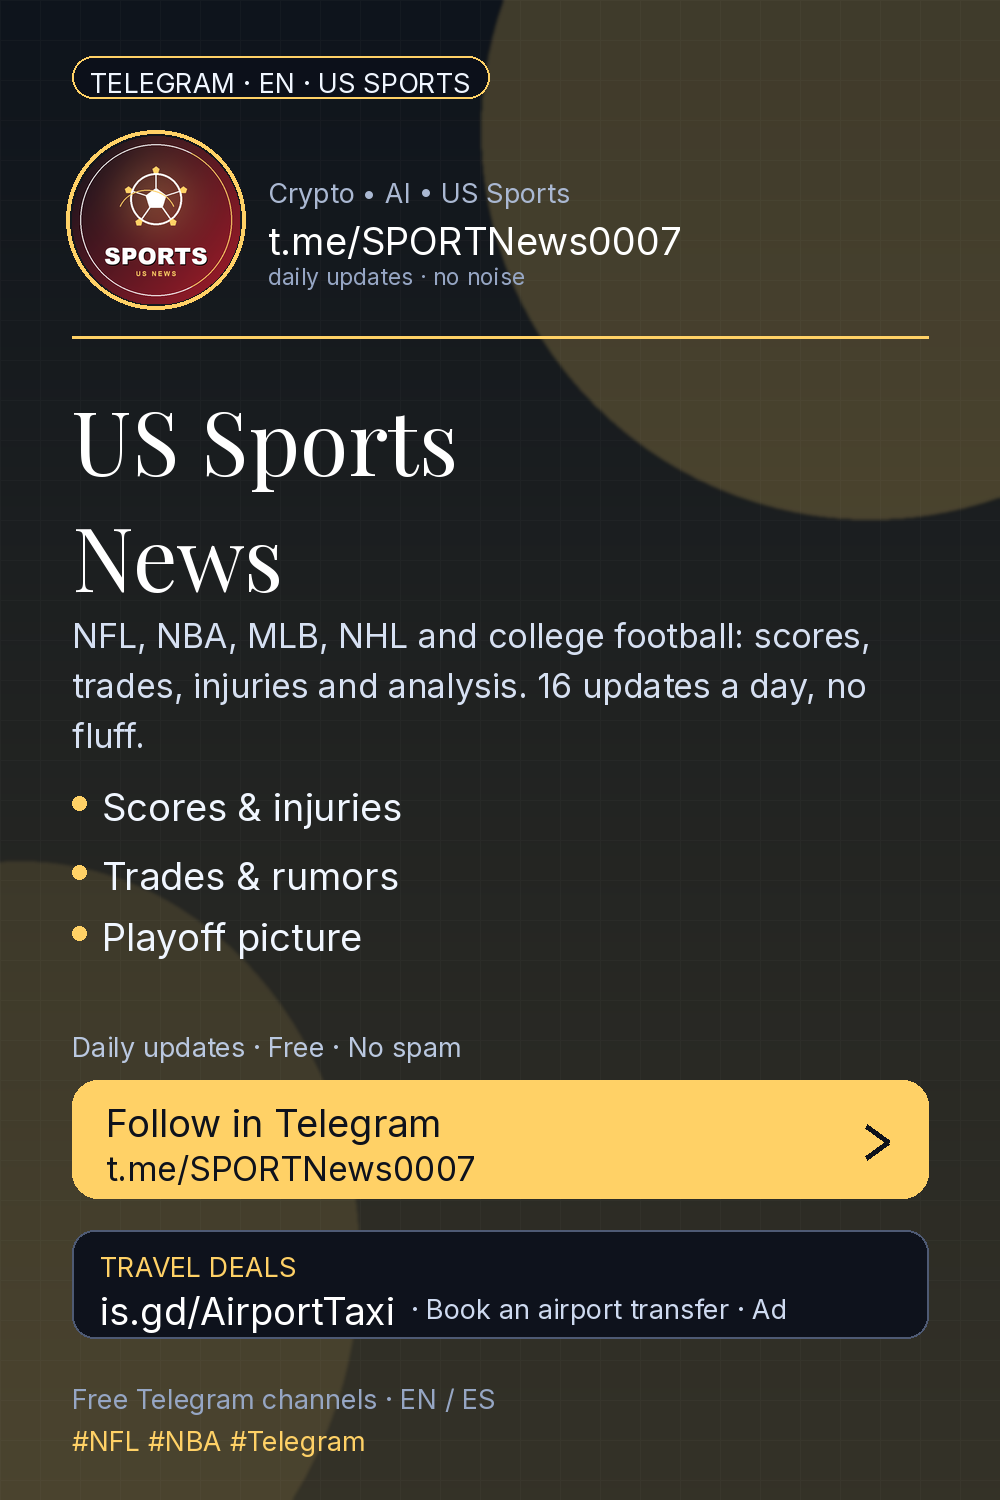
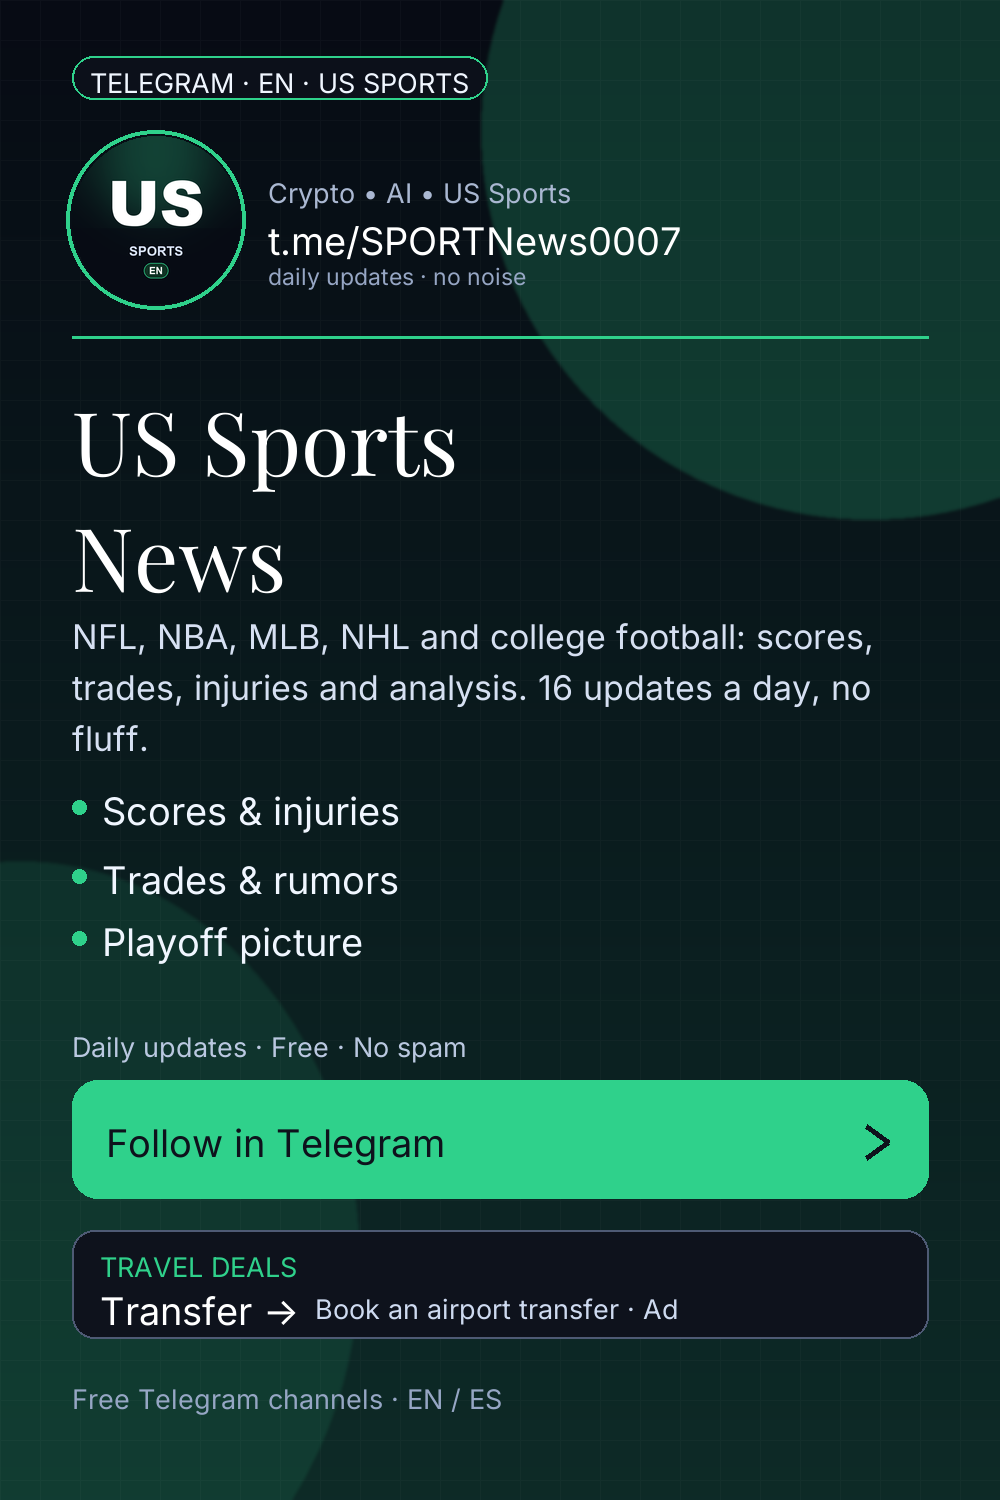
feat(promo-cards): промо-карточки на новом бренде
- новые аватары (assets/avatars) вместо старых логотипов, фолбэк на assets/logos
- палитра: тёмно-синяя база + акценты тем (янтарь/фиолет/зелёный)
- кнопка CTA без дублирующего t.me-адреса (он уже в шапке)
- убраны хэштеги из картинки — они бесполезны вне текста поста
- в партнёрской строке убран повтор названия («eSIM → · eSIM…»)

Перегенерированы все 6 карточек в docs/assets/channel-cards.
pytest: 1183 passed, 1 skipped.

diff --git a/content_factory/channel_cards.py b/content_factory/channel_cards.py
@@ -103,8 +103,8 @@ CARDS: Dict[str, ChannelCard] = {
         handle="@HOOPY0007",
         telegram_url="https://t.me/HOOPY0007",
         hashtags=["#Crypto", "#Bitcoin", "#Telegram"],
-        accent="#FFC107",
-        base="#1E1206",
+        accent="#F5A524",
+        base="#070B14",
         logo="crypto-news.png",
     ),
     "ai-news": ChannelCard(
@@ -125,8 +125,8 @@ CARDS: Dict[str, ChannelCard] = {
         handle="@AINEWS0007",
         telegram_url="https://t.me/AINEWS0007",
         hashtags=["#AI", "#MachineLearning", "#Telegram"],
-        accent="#4FC3F7",
-        base="#08142A",
+        accent="#8B7CFF",
+        base="#070B14",
         logo="ai-news.png",
     ),
     "sport-news": ChannelCard(
@@ -147,8 +147,8 @@ CARDS: Dict[str, ChannelCard] = {
         handle="@SPORTNews0007",
         telegram_url="https://t.me/SPORTNews0007",
         hashtags=["#NFL", "#NBA", "#Telegram"],
-        accent="#FFD166",
-        base="#0E141C",
+        accent="#2FD18B",
+        base="#070B14",
         logo="sport-news.png",
     ),
     "crypto-es": ChannelCard(
@@ -169,8 +169,8 @@ CARDS: Dict[str, ChannelCard] = {
         handle="@TechnologiesNews01",
         telegram_url="https://t.me/TechnologiesNews01",
         hashtags=["#Cripto", "#Bitcoin", "#Telegram"],
-        accent="#FFD54F",
-        base="#221408",
+        accent="#F5A524",
+        base="#070B14",
         logo="crypto-es.png",
     ),
     "tech-ai-es": ChannelCard(
@@ -191,8 +191,8 @@ CARDS: Dict[str, ChannelCard] = {
         handle="@WORLDNews0007",
         telegram_url="https://t.me/WORLDNews0007",
         hashtags=["#InteligenciaArtificial", "#IA", "#Telegram"],
-        accent="#81C7FF",
-        base="#10133E",
+        accent="#8B7CFF",
+        base="#070B14",
         logo="tech-ai-es.png",
     ),
     "futbol-es": ChannelCard(
@@ -213,8 +213,8 @@ CARDS: Dict[str, ChannelCard] = {
         handle="@SPORTSAnalytics007",
         telegram_url="https://t.me/SPORTSAnalytics007",
         hashtags=["#Fútbol", "#Deporte", "#Telegram"],
-        accent="#FFD166",
-        base="#062218",
+        accent="#2FD18B",
+        base="#070B14",
         logo="futbol-es.png",
     ),
 }
@@ -300,7 +300,8 @@ def render_card(
     width, height = size
     root = Path(__file__).resolve().parents[1]
     font_dir = Path(font_dir) if font_dir else root / "assets" / "fonts"
-    logo_dir = Path(logo_dir) if logo_dir else root / "assets" / "logos"
+    logo_dir = Path(logo_dir) if logo_dir else root / "assets" / "avatars"
+    legacy_logo_dir = root / "assets" / "logos"
     travel = travel or travel_offer(0)
 
     def rgb(hex_value: str, fallback=(20, 24, 40)):
@@ -393,6 +394,8 @@ def render_card(
     draw.text((margin + 18, 56 + 10), badge_text, font=badge_font, fill=(240, 246, 255))
 
     logo_path = logo_dir / (card.logo or f"{card.id}.png")
+    if not logo_path.exists():
+        logo_path = legacy_logo_dir / (card.logo or f"{card.id}.png")
     logo_size = 168
     logo_x, logo_y = margin, 136
     if logo_path.exists():
@@ -468,15 +471,9 @@ def render_card(
         fill=accent + (235,),
     )
     draw.text(
-        (margin + 34, cta_top + 20),
+        (margin + 34, cta_top + 40),
         card.cta,
         font=sans_bold,
-        fill=(14, 18, 28),
-    )
-    draw.text(
-        (margin + 34, cta_top + 68),
-        "t.me/" + card.handle.lstrip("@"),
-        font=sans,
         fill=(14, 18, 28),
     )
     # arrow chevron
@@ -496,9 +493,13 @@ def render_card(
     travel_label_text = travel.get("label") if card.language == "en" else travel.get("label_es", travel.get("label"))
     draw.text((margin + 28, strip_top + 20), travel_label, font=small, fill=accent)
     draw.text((margin + 28, strip_top + 58), travel["display"], font=sans_bold, fill=(255, 255, 255))
+    suffix = " · Ad" if card.language == "en" else " · Anuncio"
+    label_text = str(travel_label_text or "")
+    if label_text and not label_text.lower().startswith(str(travel["display"]).lower().rstrip("→ ").strip()):
+        suffix = f" · {label_text}" + suffix
     draw.text(
         (margin + 28 + int(draw.textlength(travel["display"], font=sans_bold)) + 16, strip_top + 62),
-        "· " + str(travel_label_text) + (" · Ad" if card.language == "en" else " · Anuncio"),
+        suffix.lstrip(" ·"),
         font=small,
         fill=(206, 218, 240),
     )
@@ -509,12 +510,6 @@ def render_card(
         "Free Telegram channels · EN / ES" if card.language == "en" else "Canales gratis en Telegram · EN / ES",
         font=small,
         fill=(150, 166, 196),
-    )
-    draw.text(
-        (margin, height - 76),
-        " ".join(card.hashtags),
-        font=small,
-        fill=accent,
     )
     return image
 
